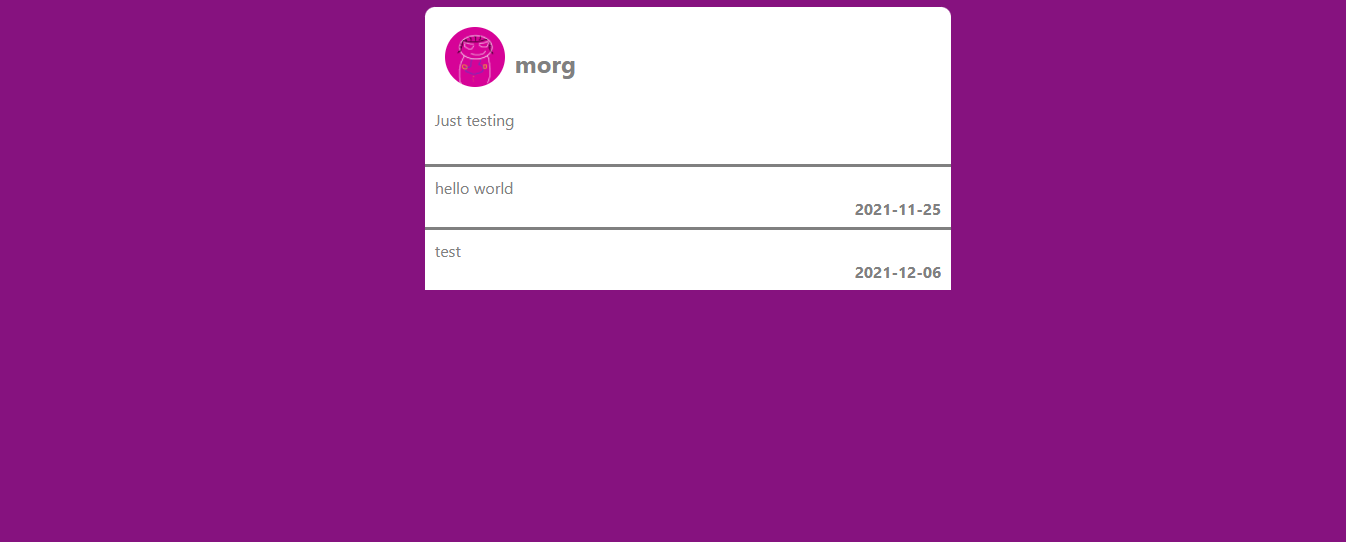
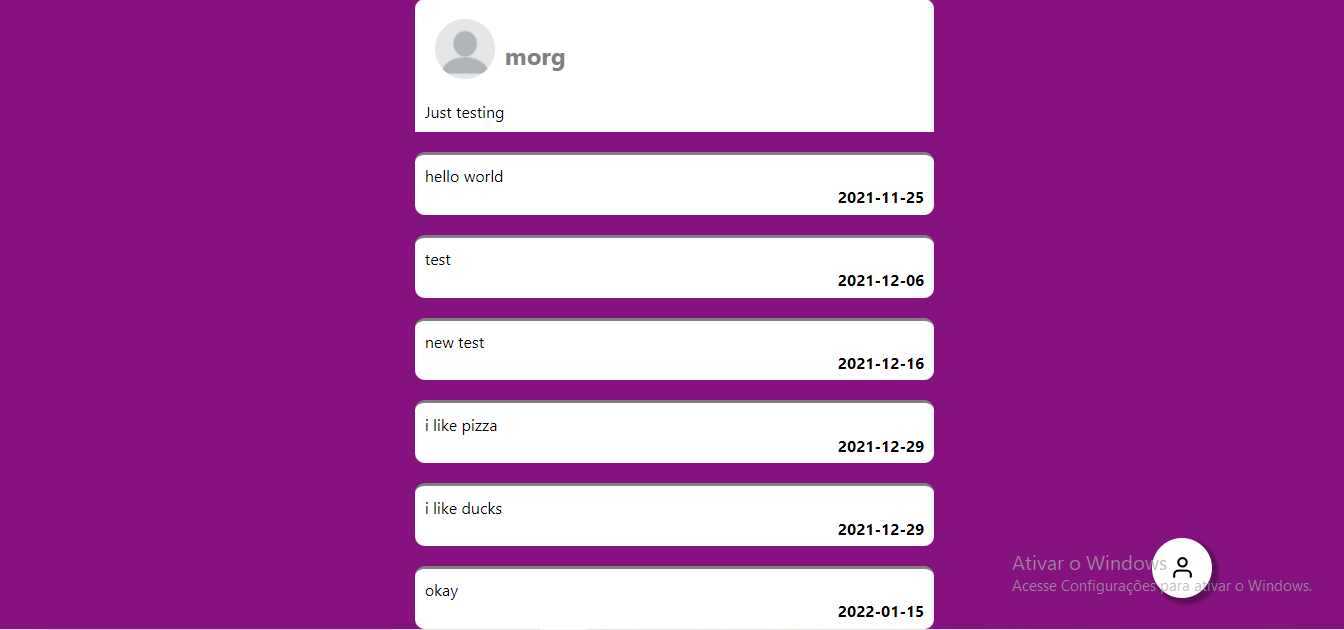
Updating user pager

Changed region(s): [[0.2812, 0.0, 0.7188, 0.738], [0.2812, 0.7675, 0.7188, 1.0], [0.75, 0.8561, 0.9688, 0.9742]]

diff --git a/pages/my_profile.js b/pages/my_profile.js
@@ -4,6 +4,9 @@ import { getToken, getUser, isLogged } from "../storage";
 import { Error_Box } from "../components/Error_Box";
 import api from "./api/hello";
 import Login from "./login";
+import router from "next/router"
+import { Styled_Avatar } from "../components/profile/styled_avatar";
+
 
 
 export default function My_Profile(props){
@@ -12,10 +15,12 @@ export default function My_Profile(props){
     const [ user, setUser ] = useState('')
     const [ body, setBody ] = useState('')
     const [ error, setError ] = useState('')
+    const url = 'profile.png'
 
     useEffect(()=>{
         setLogged(isLogged)
         setUser(getUser())
+        console.log(user)
     },[])
 
     const Handle_Submit = async event => {
@@ -27,7 +32,8 @@ export default function My_Profile(props){
                 throw new Error(error.response.data.message)
             })
 
-            window.location.reload()
+            router.push(`/profile?username=${user}`)
+
         } catch (error) {
             setError(error.message)
         }
@@ -39,7 +45,11 @@ export default function My_Profile(props){
         <>
         <Container>
             <Form_Box>
-                <h3>{user}</h3>
+                <div className="header">
+                    <Styled_Avatar src={url}/>
+                    <h3>{user}</h3>
+
+                </div>
                 <form onSubmit={Handle_Submit}>
                     <Styled_Input 
                     rows='6'

diff --git a/components/profile/index.js b/components/profile/index.js
@@ -5,7 +5,6 @@ export const Container = styled.div`
     justify-content: center;
     align-content: center;
     width: 100%;
-    color: gray;
 `
 
 export const Feed = styled.div`
@@ -41,7 +40,8 @@ export const Post_Box = styled.div`
     height: 10vh;
     background-color: white;
     padding: 10px;
-
+    border-radius: 10px;
+    margin-top: 20px;
     .footer{
         font-weight: bold;
         display: flex;

diff --git a/pages/profile.js b/pages/profile.js
@@ -40,8 +40,8 @@ function Profile({error, results, message}){
                         })
                     }
                 </Feed>
-            </Container>
             <FloatButton href="/my_profile"><IconContext.Provider value={{size: "25px"}}><FiUser /></IconContext.Provider></FloatButton>
+            </Container>
         </>
         )
     }

diff --git a/components/My_Profile/index.js b/components/My_Profile/index.js
@@ -31,6 +31,12 @@ export const Form_Box = styled.div`
     flex-direction: column;
     width: 70vw;
     height: 350px;
+    h3{
+        margin-left: 5px;
+    }
+    .header{
+        display: flex;
+    }
     form{
         width: 100%;
     }

diff --git a/pages/login.js b/pages/login.js
@@ -27,7 +27,6 @@ export default function Login(){
                 throw new Error(error.response.data.message)
             })
             
-            
             const { token, username } = response.data
             
     
